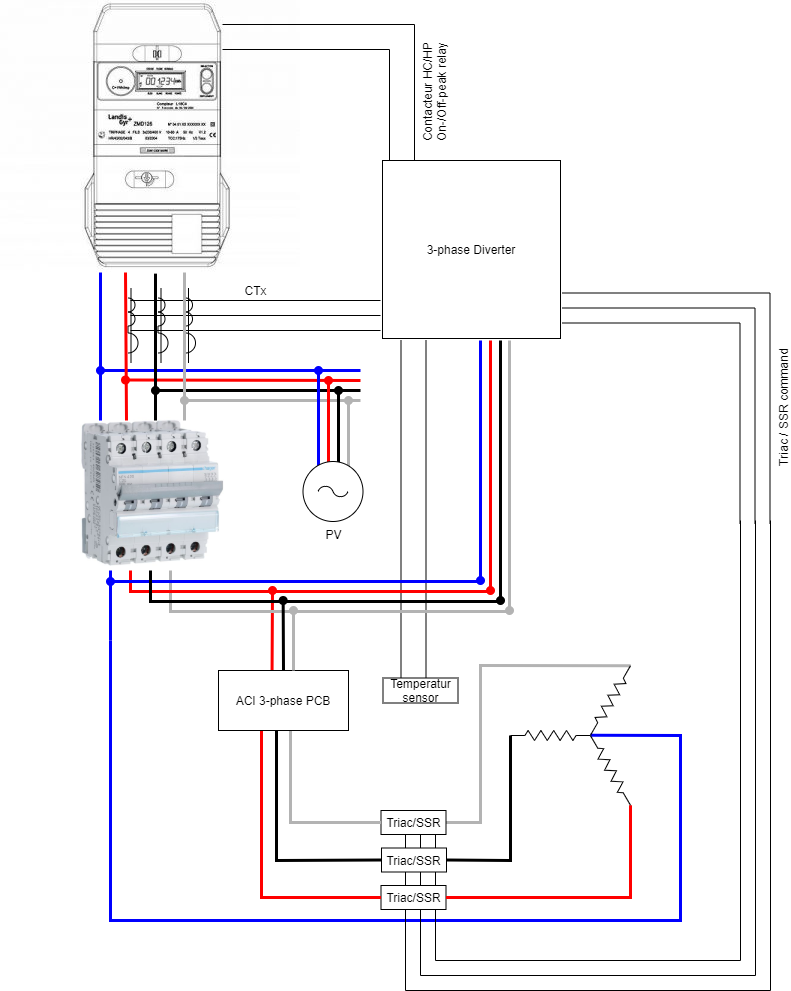
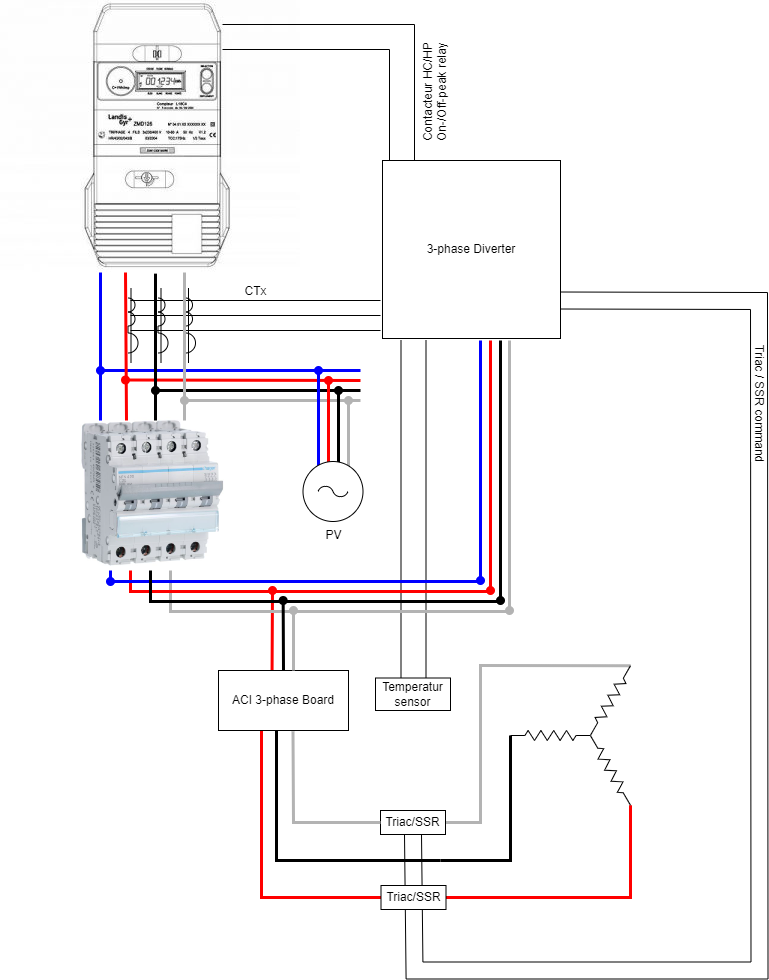
Fix ACI tri

diff --git a/Readme.md b/Readme.md
@@ -33,10 +33,9 @@ It supports up to 7 resistive output loads, which are completely independent.
       - [Migrate from single-phase to 3-phase (with neutral wire)](#migrate-from-single-phase-to-3-phase-with-neutral-wire)
       - [Wiring](#wiring)
   - [Heater with ACI single phase thermostat](#heater-with-aci-single-phase-thermostat)
-  - [Heater with ACI 3-phase thermostat (with neutral wire)](#heater-with-aci-3-phase-thermostat-with-neutral-wire)
+  - [Heater with ACI 3-phase thermostat (without neutral wire)](#heater-with-aci-3-phase-thermostat-without-neutral-wire)
   - [Alternatives WITHOUT neutral wire](#alternatives-without-neutral-wire)
-    - [Heater with mmechanical thermostat](#heater-with-mmechanical-thermostat)
-    - [Heater with ACI 3-phase thermostat](#heater-with-aci-3-phase-thermostat)
+    - [Heater with mechanical thermostat](#heater-with-mechanical-thermostat-1)
 
 ## Photo Gallery
 
@@ -176,26 +175,25 @@ The ACI pcb must be connected to a permanent phase. It will then control any 3-p
 ![Heater with ACI single phase thermostat](img/Heater_ACI_Mono.png)  
 *Figure: Wiring diagram*
 
-## Heater with ACI 3-phase thermostat (with neutral wire)
+## Heater with ACI 3-phase thermostat (without neutral wire)
 
 ---
-**_A router with 3 outputs is needed_**
+**_A router with 2 outputs is needed_**
 
 With this solution, you'll control each heating element separately.
 
 ---
 
-In this case, the neutral wire is not connected to the ACI pcb. So you'll need to connect the neutral wire to the blue wire already connected to the heating elements. The ACI pcb must be connected to 3 permanent phases.
+La carte ACI ne coupe pas les 3 phases lorsque la température est atteinte. Seules 2 phases sont coupées.
+The ACI board does not cut all 3 phases when the temperature is reached. Only 2 phases are disconnected.
+
+The remaining connected phase is the one in the middle of the power connector.
+***It is very IMPORTANT that this phase, which remains permanent, does not pass through a triac***.
+
+The ACI pcb must be connected to 3 permanent phases.
 
 ![Heater with ACI 3-phase thermostat](img/Heater_ACI_Tri.png)  
 *Figure: Wiring diagram*
-
-![ACI 3-phase PCB](img/ACI-Tri.jpeg)
-*Figure: An ACI 3-phase module*
-
-And now with an "hybrid" schematic-picture:
-![How to connect ACI 3-phase module](img/ACI-Tri-Hybrid.jpeg)  
-*Figure: How to connect ACI 3-phase module*
 
 ## Alternatives WITHOUT neutral wire
 
@@ -206,7 +204,7 @@ With this solution, you won't need to add an additional neutral wire nor add a r
 
 ---
 
-### Heater with mmechanical thermostat
+### Heater with mechanical thermostat
 
 This configuration allows to simplify the wiring and specially does not require any 3-4 poles relay.
 
@@ -226,8 +224,3 @@ In **green**, only 2 phases are switched off, L2 et L3. ***It is IMPORTANT that 
 
 ![Heater with mechanical thermostat](img/Heater_mechanical-No_neutral.png)  
 *Figure: Wiring diagram*
-
-### Heater with ACI 3-phase thermostat
-
-![Heater with ACI 3-phase thermostat](img/Heater_ACI_Tri-No_neutral.png)  
-*Figure : Wiring diagram*

diff --git a/lang/fr-fr/README.md b/lang/fr-fr/README.md
@@ -32,10 +32,9 @@ Robin Emley propose déjà un routeur PV triphasé (https://www.mk2pvrouter.co.u
     - [Passage du monophasé au triphasé (avec neutre)](#passage-du-monophasé-au-triphasé-avec-neutre)
     - [Câblage](#câblage)
   - [Chauffe-eau avec thermostat ACI monophasé](#chauffe-eau-avec-thermostat-aci-monophasé)
-  - [Chauffe-eau avec thermostat ACI triphasé (avec neutre)](#chauffe-eau-avec-thermostat-aci-triphasé-avec-neutre)
+  - [Chauffe-eau avec thermostat ACI triphasé (SANS neutre)](#chauffe-eau-avec-thermostat-aci-triphasé-sans-neutre)
   - [Alternatives SANS neutre](#alternatives-sans-neutre)
     - [Chauffe-eau avec thermostat mécanique](#chauffe-eau-avec-thermostat-mécanique-1)
-    - [Chauffe-eau avec thermostat ACI triphasé](#chauffe-eau-avec-thermostat-aci-triphasé)
 
 ## Gallerie photo
 
@@ -171,26 +170,23 @@ Dans ce cas, c’est en quelque sorte la même situation qu’avant. Vous n’av
 ![Chauffe-eau avec thermostat ACI monophasé](../../img/Heater_ACI_Mono.png)  
 *Figure : Diagramme de câblage*
 
-## Chauffe-eau avec thermostat ACI triphasé (avec neutre)
+## Chauffe-eau avec thermostat ACI triphasé (SANS neutre)
 
 ---
-**_Nécessite un routeur avec 3 sorties_**
+**_Nécessite un routeur avec 2 sorties_**
 
 Avec cette solution, vous commandez chaque résistance séparément l'une de l'autre.
 
 ---
 
-Dans ce cas, le fil neutre n’est pas connecté à la carte ACI. Ainsi, vous aurez besoin de connecter le fil neutre au fil bleu déjà connecté aux éléments de chauffage. La carte ACI doit être reliée à 3 phases permanentes.
+La carte ACI ne coupe pas les 3 phases lorsque la température est atteinte. Seules 2 phases sont coupées.
+
+La phase non coupée est celle qui correspond au fil du milieu sur le connecteur. ***Il est très IMPORTANT que cette phase, non coupée par le thermostat, ne passe pas par un triac***.
+
+La carte ACI doit être reliée à 3 phases permanentes.
 
 ![Chauffe-eau avec thermostat ACI triphasé](../../img/Heater_ACI_Tri.png)  
 *Figure : Diagramme de câblage*
-
-![Carte ACI triphasée](../../img/ACI-Tri.jpeg)
-*Figure : Une carte ACI triphasée*
-
-Et maintenant avec un schéma « hybride »:
-![Comment connecter un module ACI triphasé](../../img/ACI-Tri-Hybrid.jpeg)  
-*Figure: Comment connecter un module ACI triphasé*
 
 ## Alternatives SANS neutre
 
@@ -221,8 +217,3 @@ En **vert**, seules 2 phases sont coupées, L2 et L3. ***Il est très IMPORTANT 
 
 ![Chauffe-eau avec thermostat mécanique](../../img/Heater_mechanical-No_neutral.png)  
 *Figure: Diagramme de câblage*
-
-### Chauffe-eau avec thermostat ACI triphasé
-
-![Chauffe-eau avec thermostat ACI triphasé](../../img/Heater_ACI_Tri-No_neutral.png)  
-*Figure : Diagramme de câblage*
